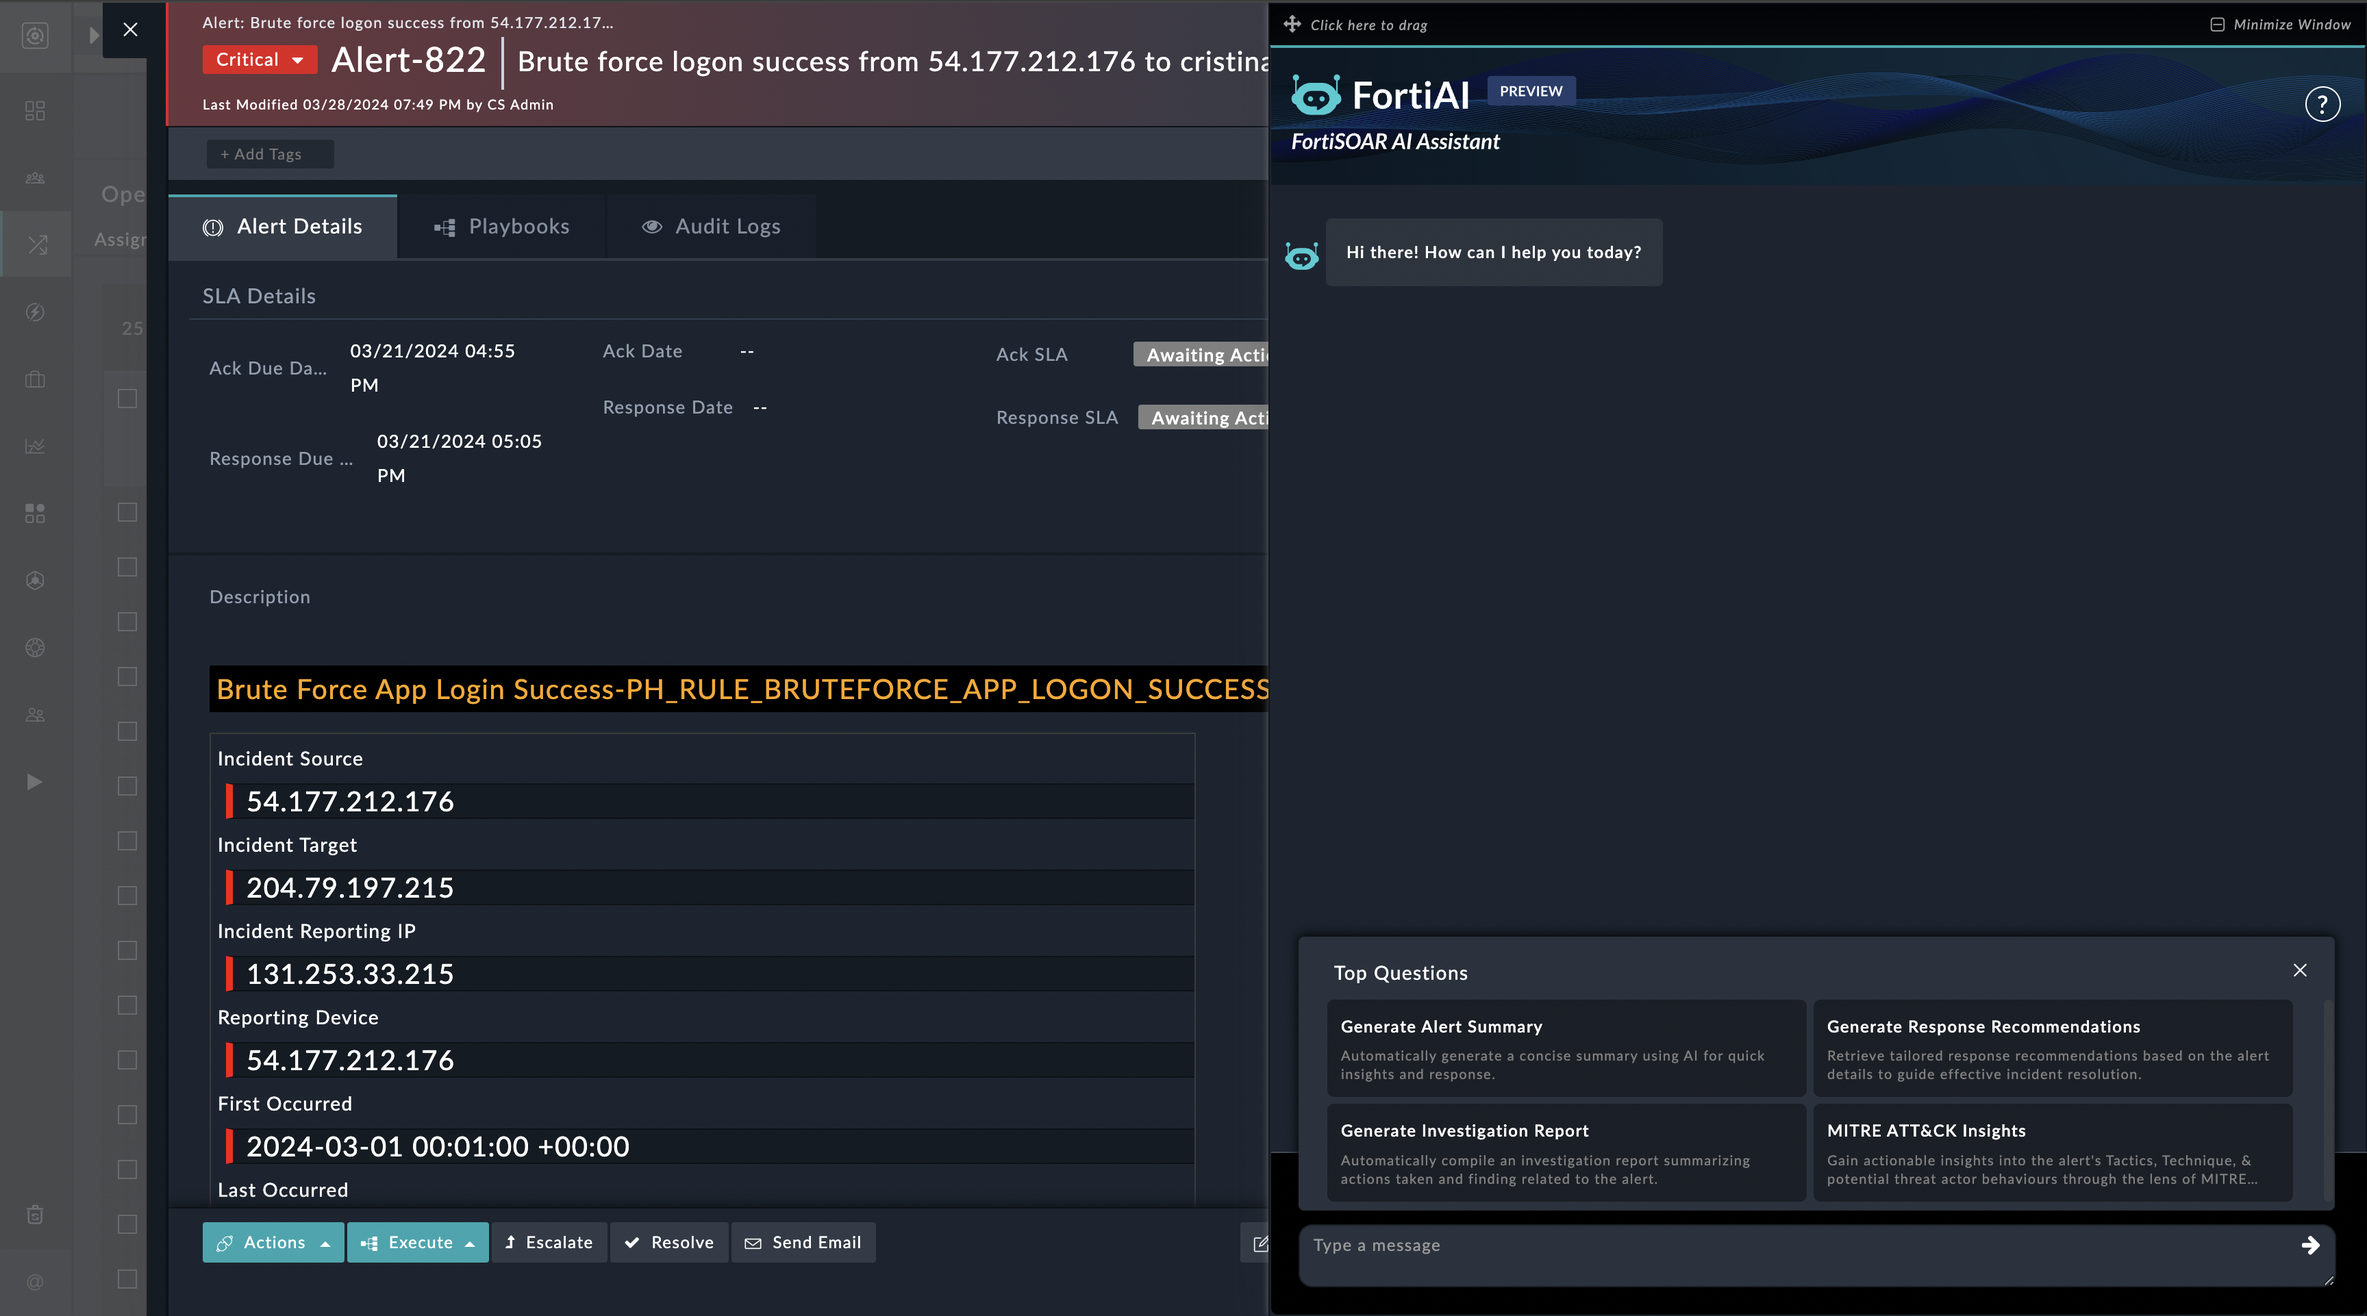
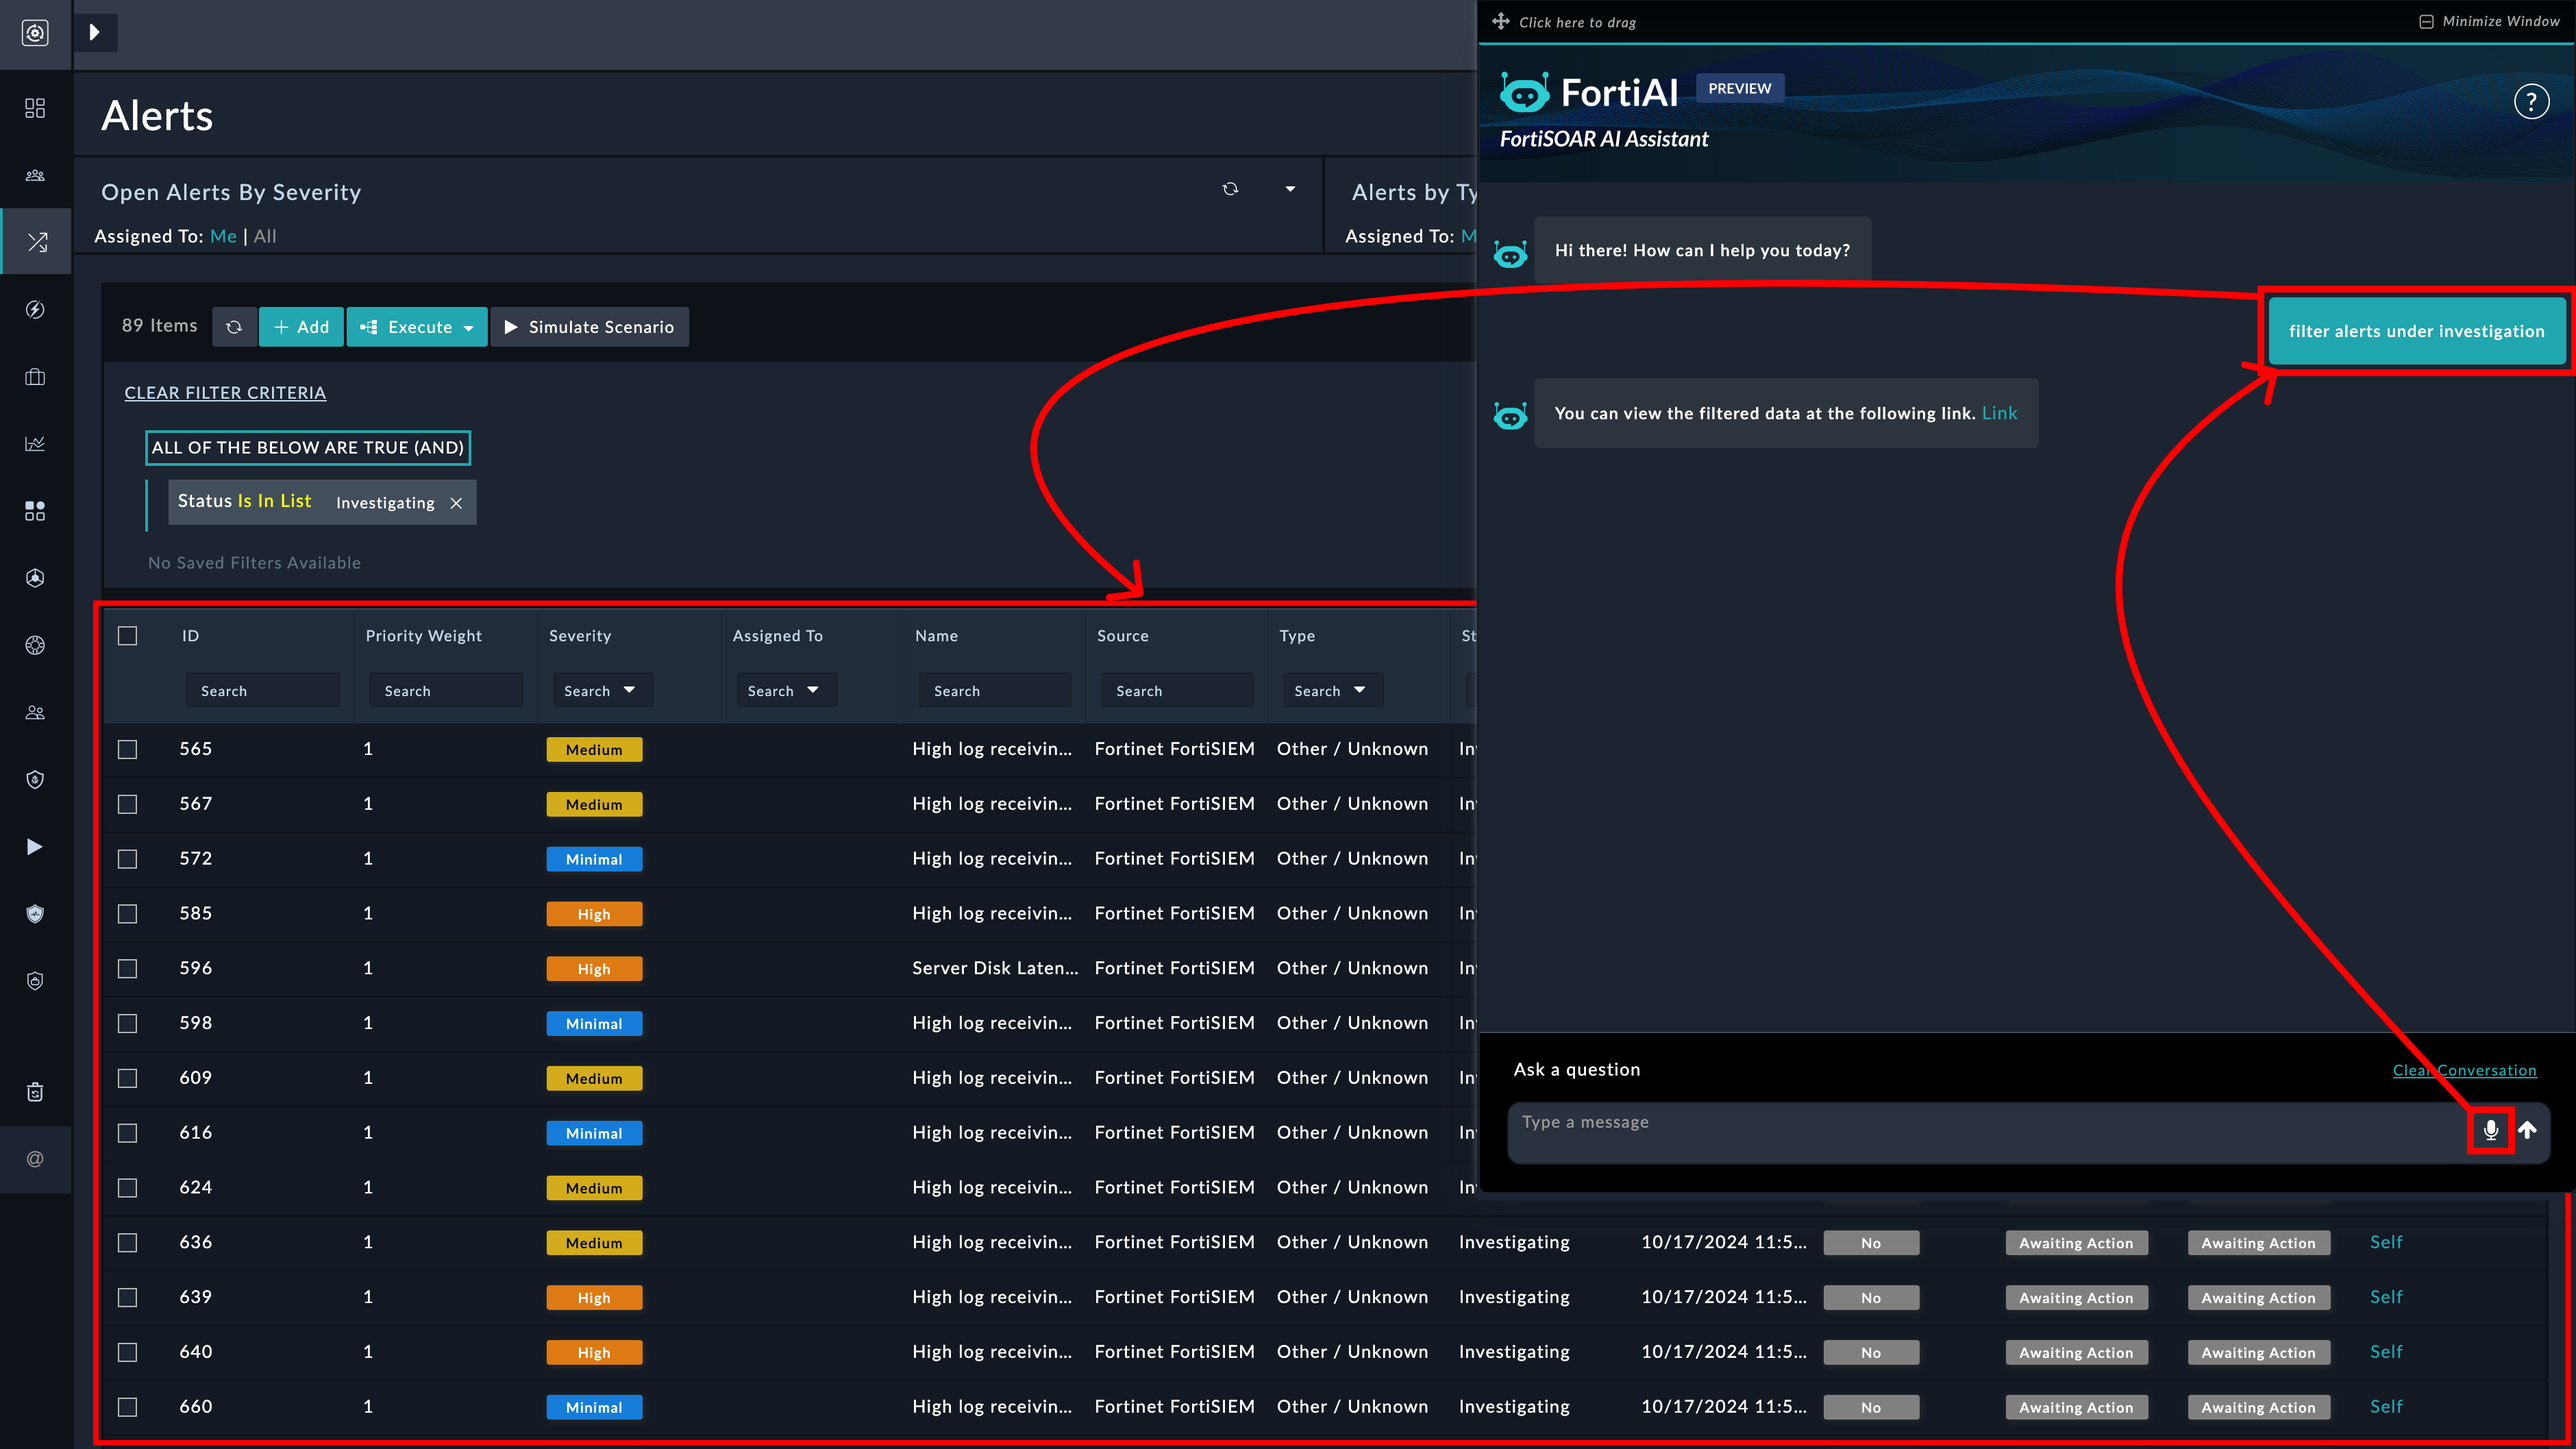
3.1.0 Changes - Release notes updated - Usage and setup updated - included a voice command that filters alerts

diff --git a/docs/usage.md b/docs/usage.md
@@ -3,9 +3,11 @@
 
 # Usage
 
-The AI Assistant Widget adds the **FortiAI** bot to both the list and detailed view of modules in FortiSOAR, as well as in the playbook designer. **FortiAI** is a valuable addition to your security toolkit; apart from making playbook design more efficient and insightful, it can understand and process contextual conversations like creation of alerts, indicators, module navigation, etc.. Whether you are new to security automation or a seasoned professional, **FortiAI** empowers you to create robust security playbooks that enhance your organization's cyber defenses. It also helps you in designing relevant response plans and offering contextual answers to your questions about different facets of security investigations and threat remediation, including creating comprehensive response plans, obtaining details on how to develop a specific kind of playbook, etc.
+The AI Assistant Widget adds the **FortiAI** bot to both the list and detailed view of modules in FortiSOAR, as well as in the playbook designer. **FortiAI** is a valuable addition to your security toolkit; apart from making playbook design more efficient and insightful, it can understand and process contextual conversations like creation of alerts, indicators, module navigation, etc.. 
 
-The **FortiAI** icon is visible in both the list view and detailed view of modules in FortiSOAR, as well as in the playbook designer. It is located on the lower-right corner, as shown in the following image of an alert detail view:
+Whether you are new to security automation or a seasoned professional, **FortiAI** empowers you to create robust security playbooks that enhance your organization's cyber defenses. It also helps you in designing relevant response plans and offering contextual answers to your questions about different facets of security investigations and threat remediation, including creating comprehensive response plans, obtaining details on how to develop a specific kind of playbook, etc.
+
+The **FortiAI** icon becomes visible when a relevant module is selected. It appears on the lower-right corner, as shown in the following image of an alert's detail view:
 
 ![FortiAI bot icon in FortiSOAR](./res/ai_bot_icon.png)
 
@@ -17,6 +19,24 @@ To manually clear a conversation in the bot, click the **Clear Conversation** bu
 
 >[!Note]
 >Clearing a conversation deletes the thread and hence generative AIs, like OpenAI, may lose context.
+
+## Voice Recognition
+
+Use voice commands to generate playbooks or perform myriad of tasks. This section explains how to use the bot's voice recognition feature
+
+1. Click to launch a relevant module for the bot icon to appear. For example, *Alerts*, *Incidents*, and *Playbooks* are some modules on which the bot icon appears.
+2. Click the <img src="./res/icon-bot.png" width="35px" alt="AI Bot"> icon to open the **FortiAI** bot.
+
+3. Click and hold the <img src="./res/icon-microphone.svg" width="15px" alt="microphone"> icon to speak your command. Release the mic when done. For example, you can say:
+
+    > *`Filter out alerts currently under investigation`*
+
+    The following example screen displays the widget in action.
+
+    ![AI Assistant in FortiSOAR](./res/ai_bot_dialog.png)
+
+>[!Tip]
+> Speak, instead of typing, any of the subsequent commands and see the magic unfold! 
 
 ## Playbooks Generation
 
@@ -39,7 +59,7 @@ Based on this prompt, the bot dynamically generates a JSON template of the playb
 The **FortiAI** bot generates a *proposed* playbook outline in the JSON format.
 
 >[!NOTE]
->*`It is advisable to review and update the JSON blocks as per your requirements`*.
+>It is advisable to review and update the JSON blocks as per your requirements.
 
 For example, if you want to enrich indicators using IPStack instead of VirusTotal, you can change 'Step 3: Enrich Indicators with VirusTotal' to 'Step 3: Enrich Indicators with IPStack'.
 
@@ -77,11 +97,11 @@ The **FortiAI** bot provides a summary of the malware and its associated threat 
 
 ## Module specific questions 
 
-- Open any of the alerts and click on the bot icon. A few pre-defined questions appears.
+- Open any of the alerts and click the bot icon. A few pre-defined questions appears.
 
   ![Module Question](./res/ai_bot_dialog.png)
 
-- Click on any of the questions, and a dialog box appears to Review and Edit the data that will be sent to the LLM like OpenAI.
+- Click any of the questions, and a dialog box appears to Review and Edit the data that will be sent to the LLM like OpenAI.
 
 >[!NOTE]
 >All sensitive and confidential information is masked automatically by the bot.
@@ -90,7 +110,7 @@ The **FortiAI** bot provides a summary of the malware and its associated threat 
 
   ![Dialog Box](./res/summary_response.png)
 
-- In another example, click on other questions like 'Generate Investigation Report' after opening an alert record, to see that alert's summary.
+- In another example, click other questions like *Generate Investigation Report* after opening an alert record, to see that alert's summary.
 
 - And user gets a response as shown in the following image;
 

diff --git a/README.md b/README.md
@@ -1,6 +1,6 @@
 ## Release Information
 
-- **Version**: 3.0.1![Preview icon](./docs/res/icon-preview.svg)
+- **Version**: 3.1.0![Preview icon](./docs/res/icon-preview.svg)
 
 - **Certified**: Yes
 
@@ -17,7 +17,13 @@
 
 ## Overview
 
-The FortiSOAR AI Assistant Widget adds the 'FortiAI' bot to both the list view and detail view of modules in FortiSOAR, as well as in the playbook designer. The 'FortiAI' bot is a powerful tool designed to provide contextual answers to your questions regarding security threats, response processes, work plans, Jinja expressions, and more! Additionally, it improves user experience and expedites the playbook creation and management process within the FortiSOAR platform. This multifunctional bot offers security professionals intelligent support and guidance in two distinct modes—Playbook Blocks and Conversation Mode.
+The FortiSOAR AI Assistant Widget adds the *FortiAI* bot to both the list view and detail view of modules in FortiSOAR, as well as in the playbook designer. The *FortiAI* bot is a powerful tool designed to provide contextual answers to your questions regarding security threats, response processes, work plans, Jinja expressions, and more! Additionally, it improves user experience and expedites the playbook creation and management process within the FortiSOAR platform.
+
+This multifunctional, context-aware bot now offers security professionals intelligent support and guidance through voice commands. For example, you can say:
+
+> *Filter out alerts currently under investigation*
+
+And you'd be shown something like the following:
 
 ![AI Assistant in FortiSOAR](./docs/res/ai_bot_dialog.png)
 

diff --git a/release_notes.md b/release_notes.md
@@ -7,7 +7,7 @@ A new **Voice Recognition** feature in our *AI Assistant* widget helps streamlin
 ### Key Highlights
 - **Press and Hold**: Activate the voice input by pressing and holding the microphone icon.
 - **Automatic Stop**: Voice recording stops automatically when the microphone is released, simplifying the input process.
-- **Quick Send**: After recording, press **Enter** to immediately send the response for processing.
+- **Quick Send**: After recording, press **Enter** to send the response for processing.
 
 > [!Note]
 > This feature is currently unsupported on the Firefox browser.

diff --git a/docs/setup.md b/docs/setup.md
@@ -26,7 +26,7 @@
     - `Read` and `Usage` permissions on Widgets
     - `Read` and `Execute` permissions on Playbooks
 
-- You must install and configure the **FortiAI** solution pack.
+- Install and configure the **FortiAI** solution pack.
 
 # Next Steps
 | [Usage](./usage.md) |
